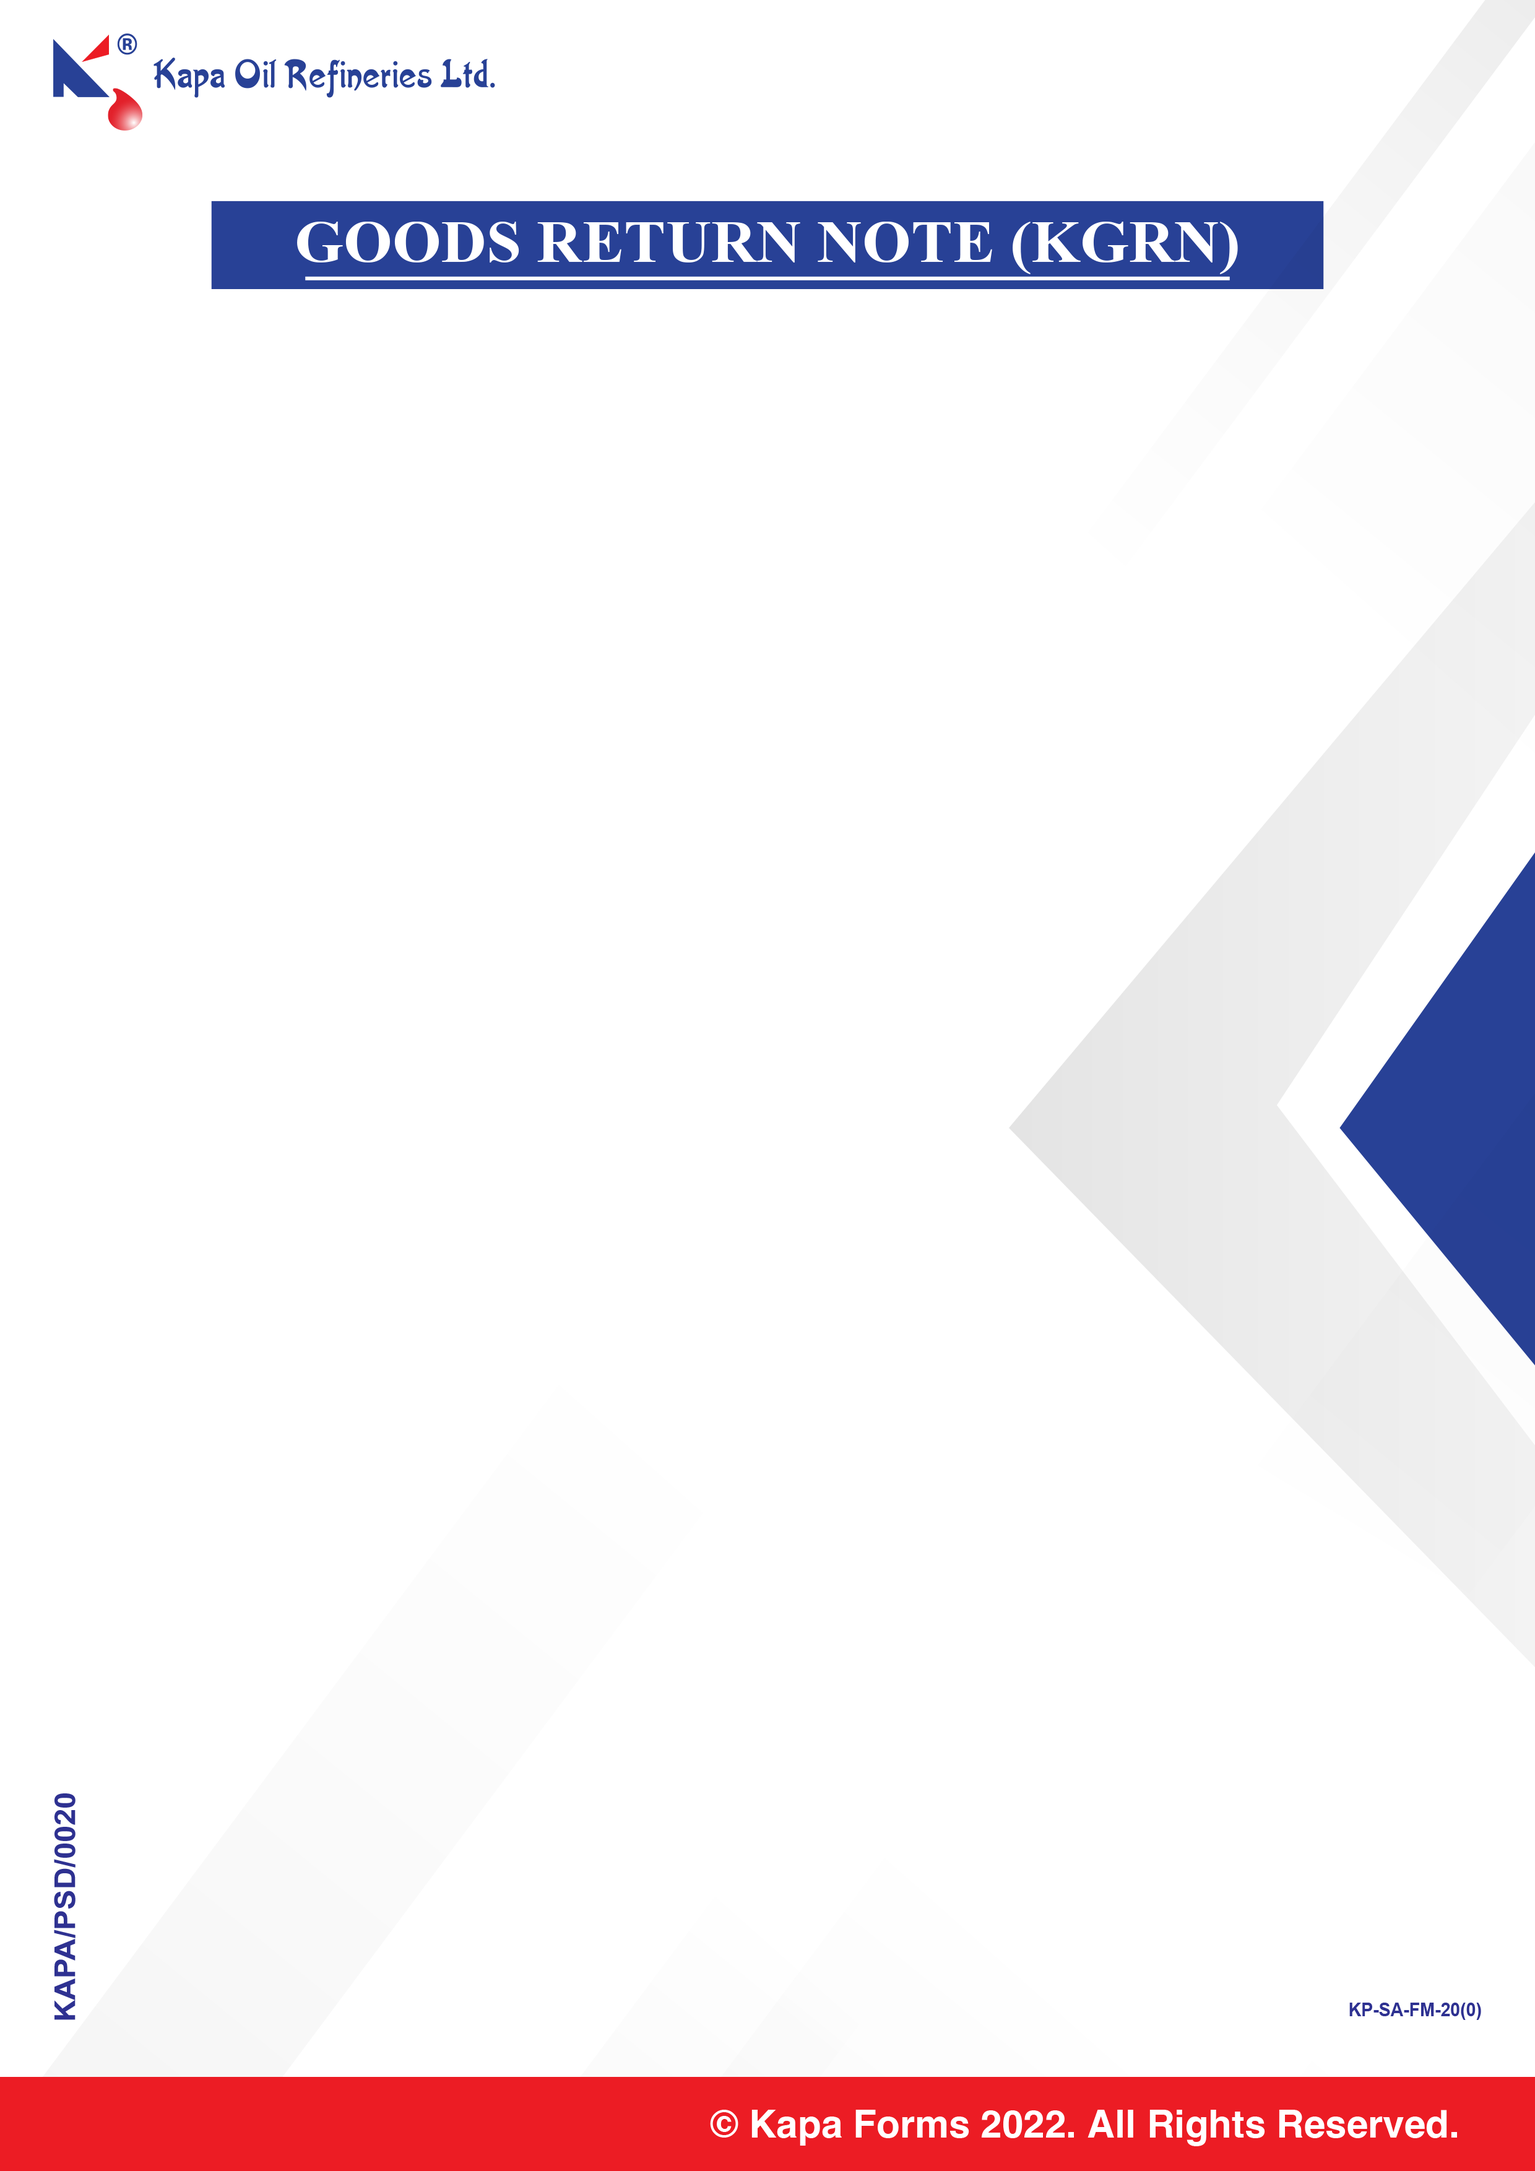
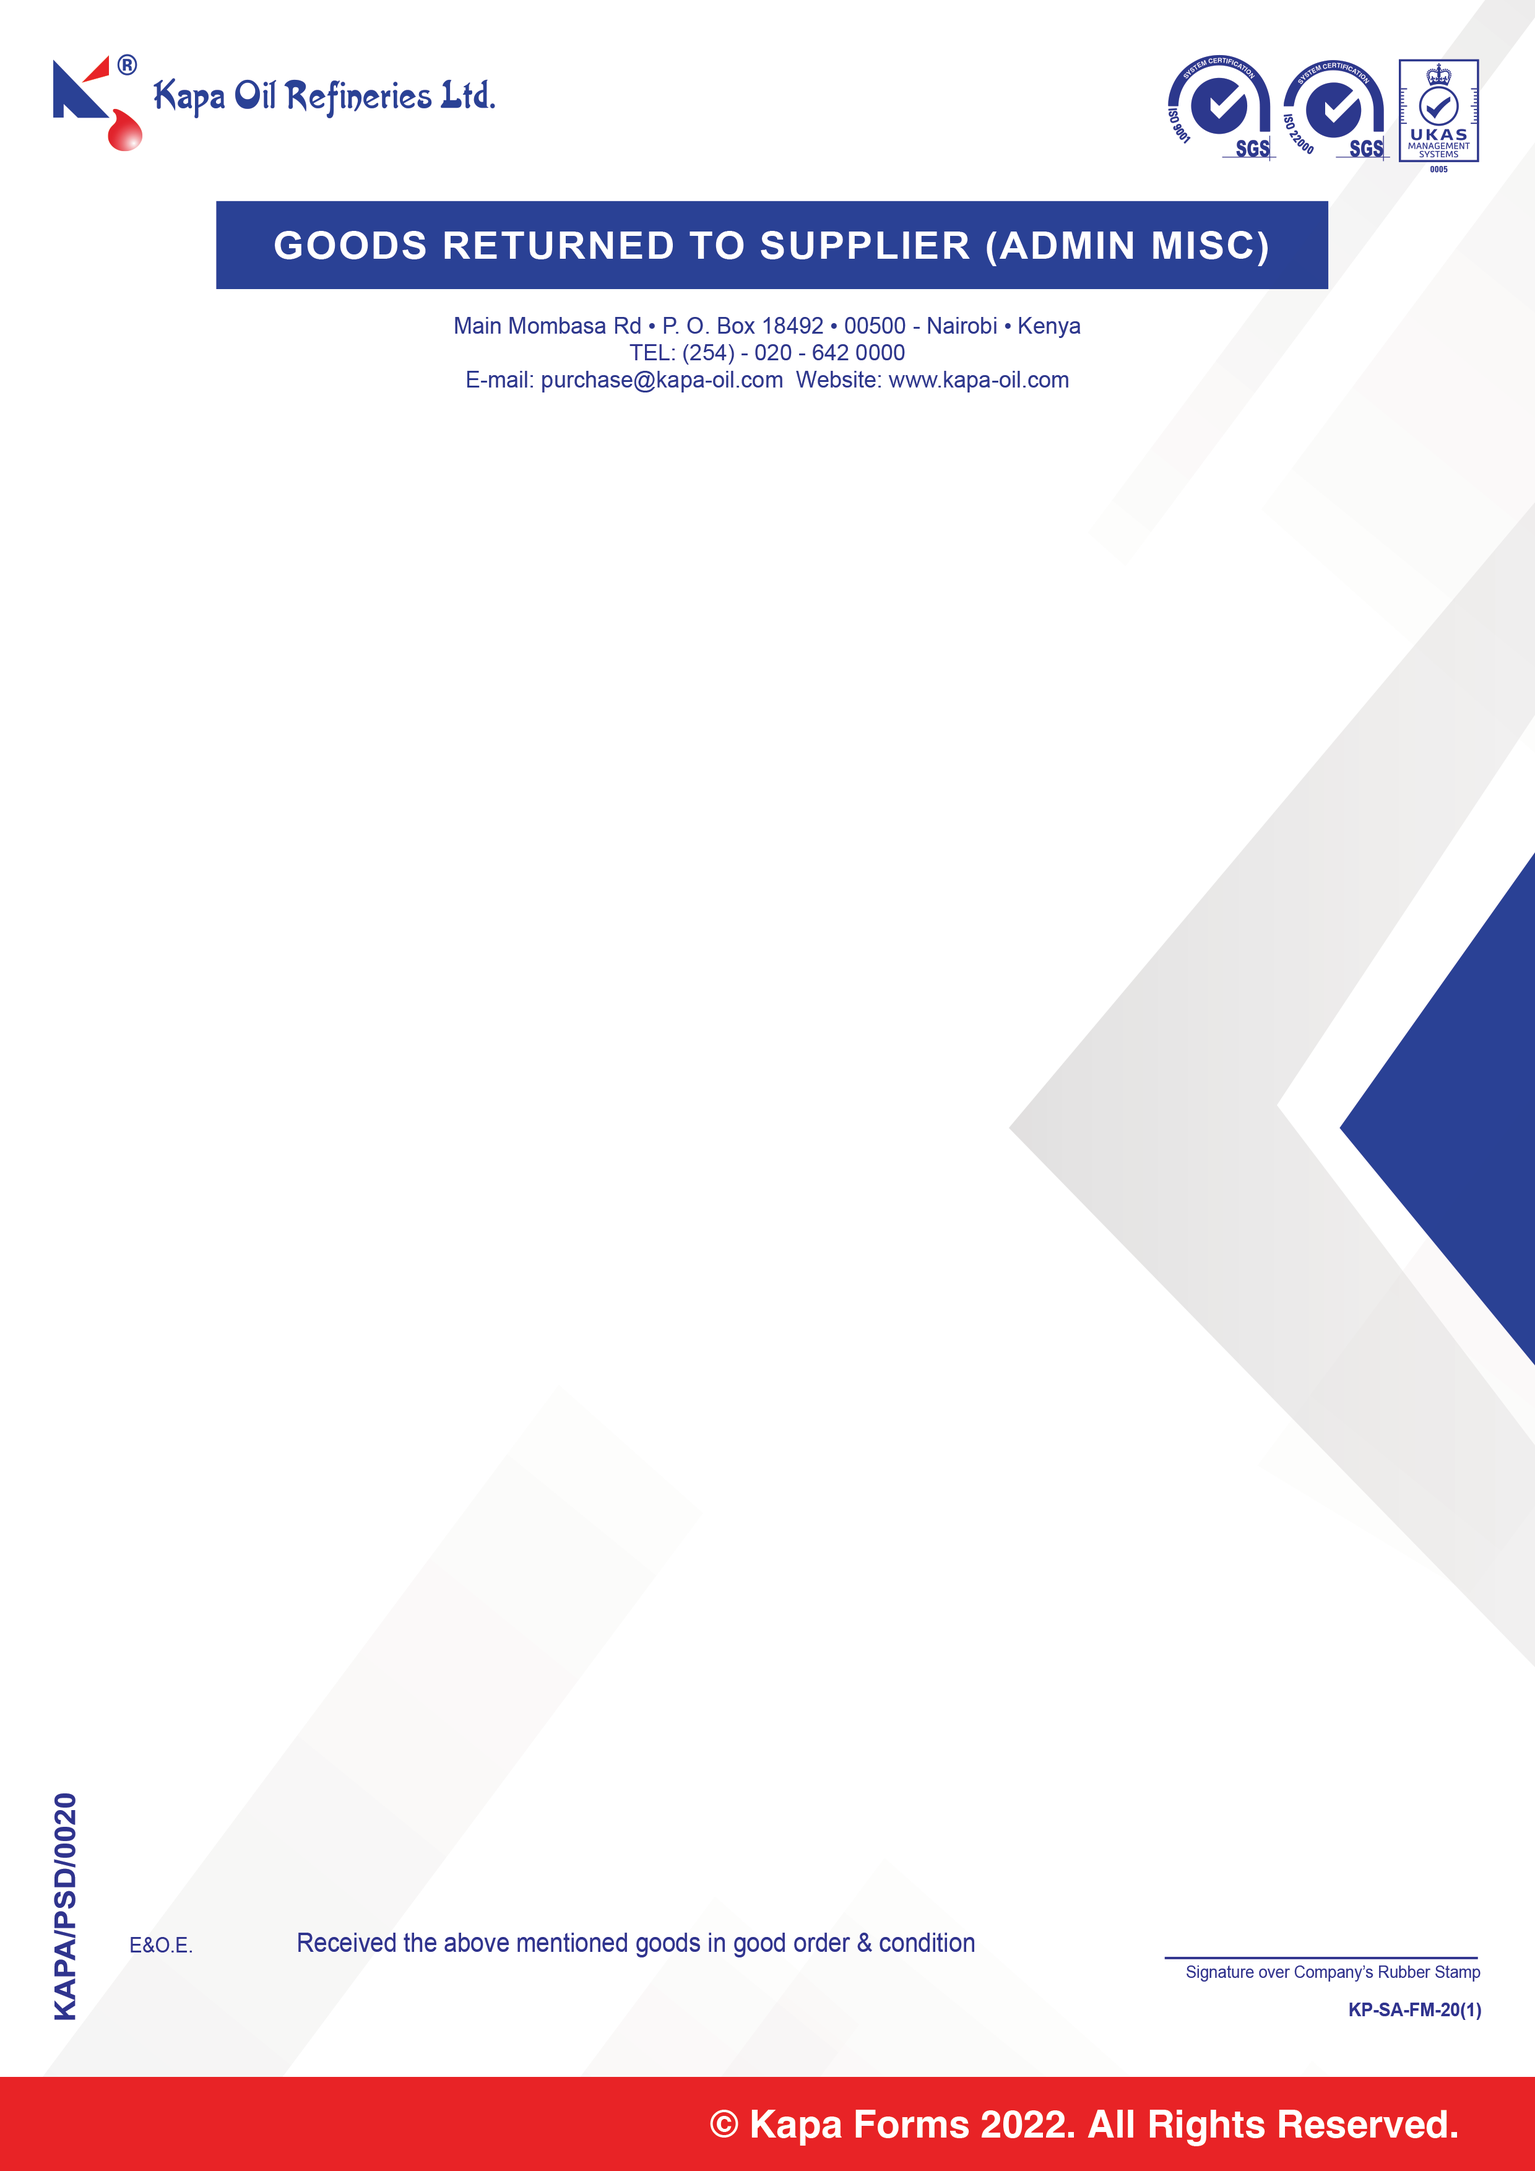
KGRN pdf

diff --git a/waste_management/Templates/waste_management/generate_bkgrn_pdf.html b/waste_management/Templates/waste_management/generate_bkgrn_pdf.html
@@ -20,11 +20,11 @@
     <style type="text/css">
 
         @page {
-            background-image: url("http://10.10.1.71:8000/media/KGRN_A4.jpg");
+            background-image: url("http://10.10.1.71:8000/media/KGRN_A4.png");
             size: A4 portrait;
             margin-left: 1.5cm;
-            margin-right: 2.8cm;
-            margin-top: 2.4cm;
+            margin-right: 0.8cm;
+            margin-top: 2.9cm;
         }
         body {
             font-weight: 200;
@@ -78,119 +78,131 @@
                 <fieldset style="padding-left: 10px;">
                     <p class="top_row">
                         <strong>Serial Number:</strong>
-                        {{ gin.id }}
+                        {{ bkgrn.id }}
                     </p>
                     <p>
                         <strong>Date Posted:</strong>
-                        {{ gin.date_posted|date:"F d, Y" }}
+                        {{ bkgrn.date_posted|date:"F d, Y" }}
                         
                     </p>
                     <p>
-                        <strong>Department to:</strong>
-                        {{ gin.department_to }} 
+                        <strong>Supplier:</strong>
+                        {{ bkgrn.supplier }} 
                     </p>
                     <p>
-                        <strong>Delivered by:</strong>
-                        {{ gin.delivered_by }} 
+                        <strong>Department:</strong>
+                        {{ bkgrn.department }} 
                     </p>
                 </fieldset>
-                <fieldset>
-                    <table class="table table-striped my_table">
+                    <table class="my_table">
                         <thead>
                             <tr>
-                                <th scope="col">Material</th>
-                                <th scope="col">Quantity</th>
-                                <th scope="col">UOM</th>
+                                <th scope="col" style="width:50%">Material</th>
+                                <th scope="col" style="width:10%">Quantity</th>
+                                <th scope="col" style="width:10%">UOM</th>
+                                <th scope="col" style="width:30%">Resolution</th>
                             </tr>
                         </thead>
                         <tbody>
-                            {% if gin.item1 != null %}
+                            {% if bkgrn.item1 != null %}
                             <tr>
-                                <td>{{ gin.item1 }}</td>
-                                <td>{{ gin.item_qty1 }}</td>
-                                <td>{{ gin.item1.uom }}</td>
+                                <td>{{ bkgrn.item1 }}</td>
+                                <td>{{ bkgrn.item_qty1 }}</td>
+                                <td>{{ bkgrn.item1.uom }}</td>
+                                <td>{{ bkgrn.resolution1 }}</td>
                                 
                             </tr>
                             {% endif %}
-                            {% if gin.item2 != null %}
+                            {% if bkgrn.item2 != null %}
                             <tr>
-                                <td>{{ gin.item2 }}</td>
-                                <td>{{ gin.item_qty2 }}</td>
-                                <td>{{ gin.item2.uom }}</td>
+                                <td>{{ bkgrn.item2 }}</td>
+                                <td>{{ bkgrn.item_qty2 }}</td>
+                                <td>{{ bkgrn.item2.uom }}</td>
+                                <td>{{ bkgrn.resolution2 }}</td>
                                 
                             </tr>
                             {% endif %}
-                            {% if gin.item3 != null %}
+                            {% if bkgrn.item3 != null %}
                             <tr>
-                                <td>{{ gin.item3 }}</td>
-                                <td>{{ gin.item_qty3 }}</td>
-                                <td>{{ gin.item3.uom }}</td>
+                                <td>{{ bkgrn.item3 }}</td>
+                                <td>{{ bkgrn.item_qty3 }}</td>
+                                <td>{{ bkgrn.item3.uom }}</td>
+                                <td>{{ bkgrn.resolution3 }}</td>
                                 
                             </tr>
                             {% endif %}
-                            {% if gin.item4 != null %}
+                            {% if bkgrn.item4 != null %}
                             <tr>
-                                <td>{{ gin.item4 }}</td>
-                                <td>{{ gin.item_qty4 }}</td>
-                                <td>{{ gin.item4.uom }}</td>
+                                <td>{{ bkgrn.item4 }}</td>
+                                <td>{{ bkgrn.item_qty4 }}</td>
+                                <td>{{ bkgrn.item4.uom }}</td>
+                                <td>{{ bkgrn.resolution4 }}</td>
                             </tr>
                             {% endif %}
-                            {% if gin.item5 != null %}
+                            {% if bkgrn.item5 != null %}
                             <tr>
-                                <td>{{ gin.item5 }}</td>
-                                <td>{{ gin.item_qty5 }}</td>
-                                <td>{{ gin.item5.uom }}</td>
+                                <td>{{ bkgrn.item5 }}</td>
+                                <td>{{ bkgrn.item_qty5 }}</td>
+                                <td>{{ bkgrn.item5.uom }}</td>
+                                <td>{{ bkgrn.resolution5 }}</td>
                             </tr>
                             {% endif %}
-                            {% if gin.item6 != null %}
+                            {% if bkgrn.item6 != null %}
                             <tr>
-                                <td>{{ gin.item6 }}</td>
-                                <td>{{ gin.item_qty6 }}</td>
-                                <td>{{ gin.item6.uom }}</td>
+                                <td>{{ bkgrn.item6 }}</td>
+                                <td>{{ bkgrn.item_qty6 }}</td>
+                                <td>{{ bkgrn.item6.uom }}</td>
+                                <td>{{ bkgrn.resolution6 }}</td>
                             </tr>
                             {% endif %}
-                            {% if gin.item7 != null %}
+                            {% if bkgrn.item7 != null %}
                             <tr>
-                                <td>{{ gin.item7 }}</td>
-                                <td>{{ gin.item_qty7 }}</td>
-                                <td>{{ gin.item7.uom }}</td>
+                                <td>{{ bkgrn.item7 }}</td>
+                                <td>{{ bkgrn.item_qty7 }}</td>
+                                <td>{{ bkgrn.item7.uom }}</td>
+                                <td>{{ bkgrn.resolution7 }}</td>
                             </tr>
                             {% endif %}
-                            {% if gin.item8 != null %}
+                            {% if bkgrn.item8 != null %}
                             <tr>
-                                <td>{{ gin.item8 }}</td>
-                                <td>{{ gin.item_qty8 }}</td>
-                                <td>{{ gin.item8.uom }}</td>
+                                <td>{{ bkgrn.item8 }}</td>
+                                <td>{{ bkgrn.item_qty8 }}</td>
+                                <td>{{ bkgrn.item8.uom }}</td>
+                                <td>{{ bkgrn.resolution8 }}</td>
                             </tr>
                             {% endif %}
                         </tbody>
                     </table>
-                </fieldset>
                 <fieldset  class="bottom_row">
                     <table>
-                        <td colspan ="2"><strong>Prepared by:</strong>
-                            {{ gin.author }}
-                        </td>
-                        <td colspan ="2"><strong>H.O.D / Representative:</strong>
-                            {{ gin.hod }}
-                        </td>
-                    </tr>
-                    <tr>
-                        <td colspan ="2"><strong>Time in Warehouse:</strong>
-                            {{ gin.time_in }}
-                        </td>
-                        <td  colspan ="2"><strong>Receiving H.O.D:</strong>
-                            {{ gin.approved_by }}
-                        </td>
-                    </tr>
-                    <tr>
-                        <td colspan ="2"><strong>Time out Warehouse:</strong>
-                            {{ gin.time_out }}
-                        </td>
-                        <td  colspan ="2"><strong>Received by:</strong>
-                            {{ gin.received_by }}
-                        </td>
-                    </tr>
+                        <tr>
+                            <th style="text-align: Left">KAPA</th>
+                            <th style="text-align: Left">COLLECTED BY:</th>
+                        </tr>
+                        <tr>
+                            <td><strong>Prepared by:</strong>
+                                {{ bkgrn.author }}
+                            </td>
+                            <td><strong>Name:</strong>
+                                {{ bkgrn.hod }}
+                            </td>
+                        </tr>
+                        <tr>
+                            <td><strong>H.O.D / Representative:</strong>
+                                {{ bkgrn.hod }}
+                            </td>
+                            <td ><strong>ID Number:</strong>
+                                {{ bkgrn.id_number }}
+                            </td>
+                        </tr>
+                        <tr>
+                            <td><strong>Purchasing Rep.:</strong>
+                                {{ bkgrn.purchase_rep }}
+                            </td>
+                            <td ><strong>Vehicle number:</strong>
+                                {{ bkgrn.vehicle_no }}
+                            </td>
+                        </tr>
                     </table>
                 </fieldset> 
  

diff --git a/waste_management/Templates/waste_management/kgrn_items.html b/waste_management/Templates/waste_management/kgrn_items.html
@@ -133,7 +133,7 @@
                 {% elif kgrn_item.form_status == 3 %}
                 <td><a href="{% url 'bkgrn-update' kgrn_item.id%}">Rejected</a></td>
                 {% elif kgrn_item.form_status == 6 %}
-                <td><a href="#">Get PDF</a></td>
+                <td><a href="{% url 'bkgrn_pdf_view' kgrn_item.id%}">Get PDF</a></td>
                 {% else %}
                 <td><a href="#">Awaiting Approval ...</a></td>
                 {% endif %}

diff --git a/rts_forms/views.py b/rts_forms/views.py
@@ -98,19 +98,24 @@ class FormsHODUpdateView(UpdateView):
     fields = ['hod_comment','image','department_internal']
 
     def form_valid(self, form):
+        dept = form.instance.department_internal
+        profs = Profile.objects.filter(department=f'{dept}',level='2')
+        #em = prof.values_list('email', flat=True) #Gets email account of the HOD from the logged in user's department
+
         if ('elevate' in self.request.POST) and (form.instance.form_status == 0):
             form.instance.form_status += 2
 
-            email = EmailMessage(
-            subject=f'{form.instance.department} department R.T.S form',
-            body=f'R.T.S form number {form.instance.id} submitted by {form.instance.author} has been approved by {self.request.user}, kindly log on to http://10.10.1.195:8000/forms/home/ to view it.  In case of any challenges feel free to contact IT for further assistance.',
-            from_email=config('EMAIL_HOST_USER'),
-            to=[config('BRIAN_EMAIL')],
-            cc=[config('BRIAN_EMAIL')],
-            reply_to=[config('BRIAN_EMAIL')],  # when the reply or reply all button is clicked, this is the reply to address, normally you don't have to set this if you want the receivers to reply to the from_email address
-            )
-            # email.content_subtype = 'html' # if the email body contains html tags, set this. Otherwise, omit it
-            email.send()
+            for prof in profs:
+                email = EmailMessage(
+                subject=f'{form.instance.department} department R.T.S form',
+                body=f'R.T.S form number {form.instance.id} submitted by {form.instance.author} has been approved by {self.request.user}, kindly log on to http://10.10.1.195:8000/forms/home/ to view it.  In case of any challenges feel free to contact IT for further assistance.',
+                from_email=config('EMAIL_HOST_USER'),
+                to=[prof.user.email, config('BRIAN_EMAIL')],
+                cc=[config('BRIAN_EMAIL')],
+                reply_to=[config('BRIAN_EMAIL')],  # when the reply or reply all button is clicked, this is the reply to address, normally you don't have to set this if you want the receivers to reply to the from_email address
+                )
+                # email.content_subtype = 'html' # if the email body contains html tags, set this. Otherwise, omit it
+                email.send()
             messages.success(self.request,'Form submitted and mail sent!')
             return super().form_valid(form)
             

diff --git a/waste_management/urls.py b/waste_management/urls.py
@@ -16,6 +16,7 @@ urlpatterns = [
     path('kgrn/new/', views.BlankKGRN_CreateView.as_view(), name='blank_kgrn-create'),
     path('bkgrn/<int:pk>/update/', views.BlankKGRNHODUpdateView.as_view(), name='bkgrn-update'),
     path('bkgrn/<int:pk>/update1/', views.BlankKGRNPurchaseUpdateView.as_view(), name='bkgrn-update1'),
+    path('bkgrn/pdf/<pk>', views.blank_kgrns_render_pdf_view, name='bkgrn_pdf_view'),
     path('kgrns/items/', views.KGRN_ItemsListView.as_view(), name='kgrn_items'),
     path('dnoteskgrn/kgrn', views.create_kgrn, name='create_kgrn'),
     path('kgrn/<int:pk>/update/', views.KGRNHODUpdateView.as_view(), name='kgrn-update'),
